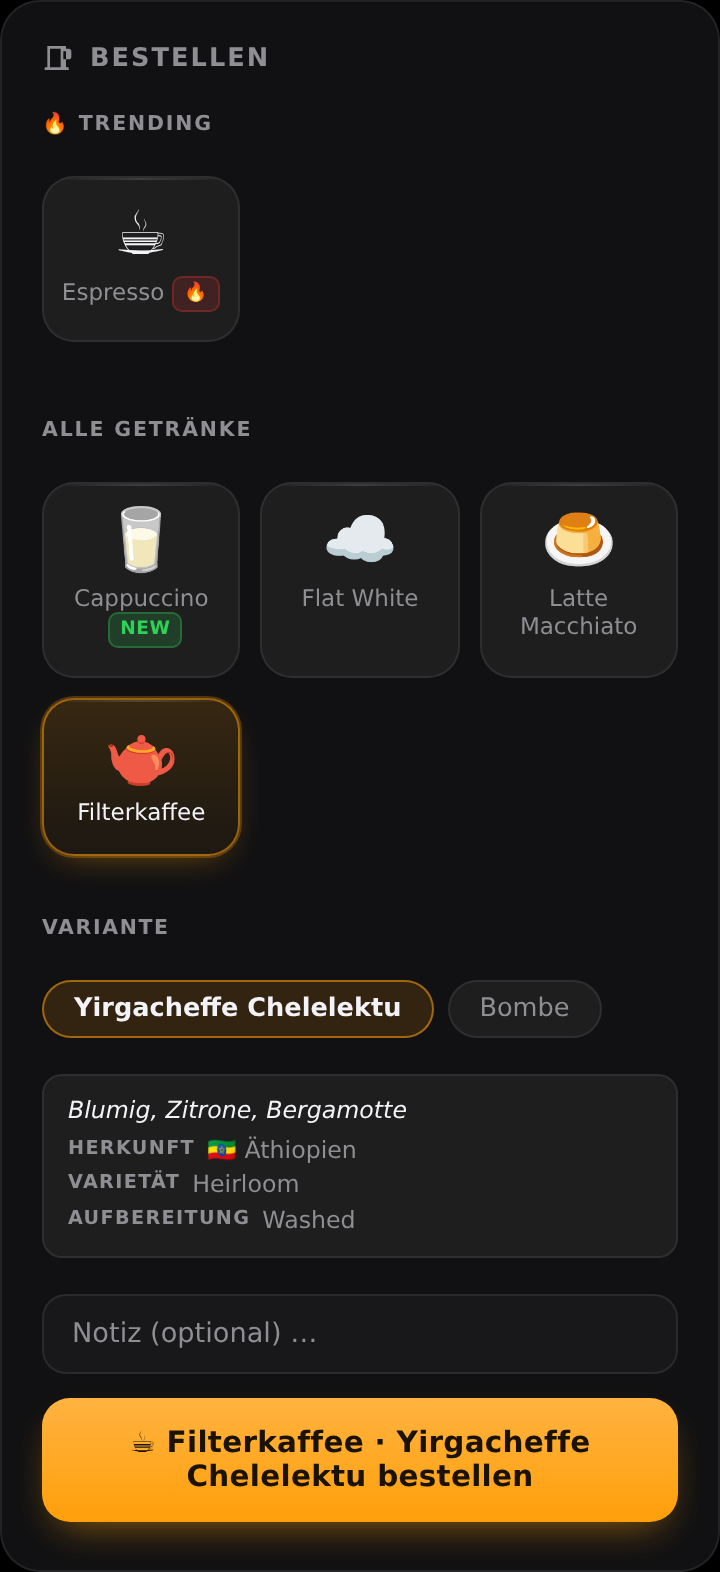
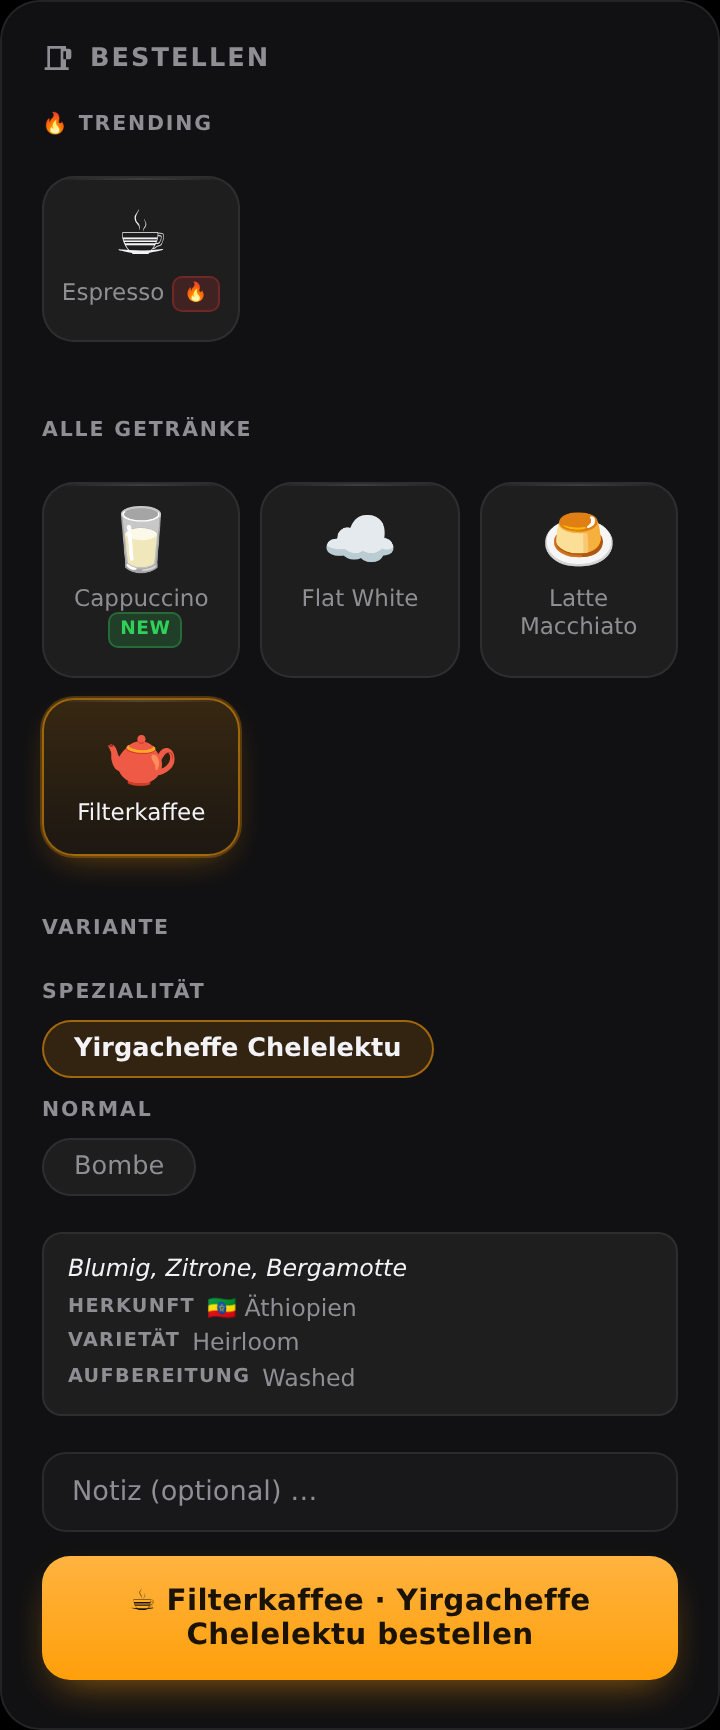
chore: bump version to v1.17.0, update CHANGELOG, regen screenshot (#38)
Speciality/normal bean grouping (#36/#37) is the only user-facing change
since v1.16.0. Screenshot mock data now tags one demo bean as speciality
so the new grouping is actually visible in docs/screenshots/card.png.

diff --git a/glp-order-card.js b/glp-order-card.js
@@ -1,4 +1,4 @@
-const GLP_ORDER_CARD_VERSION = '1.16.0';
+const GLP_ORDER_CARD_VERSION = '1.17.0';
 
 // Menu items younger than this show the NEW badge (config: new_badge_days)
 const NEW_BADGE_DAYS_DEFAULT = 7;

diff --git a/CHANGELOG.md b/CHANGELOG.md
@@ -1,6 +1,6 @@
 # Changelog
 
-## [Unreleased]
+## [1.17.0] – 2026-07-25
 ### Added
 - **Speciality/normal bean grouping.** Bean-backed menu items (`useBeans`) now split their variant picker into two sections — "Speciality" and "Normal" — using the `category` field on `/api/orders/active-beans` (added in gaggiuino-local-profiler#505; untagged beans or beans from older app versions default to "Normal"). Mirrors the existing trending/regular menu-item split. Non-bean items (`item.variants`) are unaffected — still a single flat chip grid. `_getVariants()` stays as the flat/length helper for the initial render, incremental DOM update and submit-button paths; a new `_getVariantsGrouped()` + shared `_variantInnerHtml()`/`_variantChipHtml()` helpers handle the grouped rendering so `_renderOrderForm()` and `_updateVariantPicker()` no longer duplicate the chip markup. `glp-order-card.js`, `test/variant-grouping.test.js` (new, 6 tests). Closes #36
 
